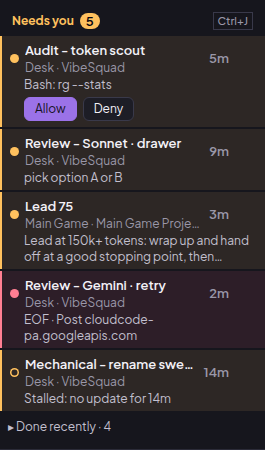
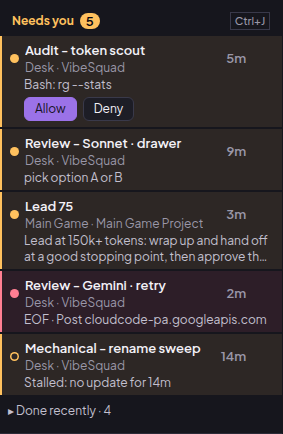
fix(@desk): U3 r2 — lane stays whole, project elides with floor; real-width geometry probe

diff --git a/src/boring.css b/src/boring.css
@@ -1257,9 +1257,9 @@ html[data-vibe="boring"] .boring-opening { margin: auto; color: var(--muted, #88
 html[data-vibe="boring"] .boring-needs-main { flex: 1 1 auto; min-width: 0; display: flex; flex-wrap: wrap; align-items: center; column-gap: 6px; }
 html[data-vibe="boring"] .boring-needs-open .boring-needs-who { flex: 1 1 0; min-width: min(20ch, 100%); max-width: none; }
 html[data-vibe="boring"] .boring-needs-open .boring-needs-where-inline { display: flex; flex: 0 0 100%; max-width: 100%; min-width: 0; overflow: hidden; }
-/* Desk U3 (UX R25 m1): lead rows keep the lane; the project elides first; the separator is a pseudo-element that exists only when a lane is shown (no stray leading "·"). */
-html[data-vibe="boring"] .boring-needs-open .boring-needs-lane { flex: 0 1 auto; min-width: 0; max-width: 100%; overflow: hidden; text-overflow: ellipsis; white-space: nowrap; }
-html[data-vibe="boring"] .boring-needs-open .boring-needs-proj { flex: 0 100 auto; min-width: 0; max-width: 100%; text-indent: 0; overflow: hidden; text-overflow: ellipsis; white-space: nowrap; }
+/* Desk U3 (UX R25 m1, R32 m1+m2): lead rows keep the lane whole when it fits (capped at 100%-6ch so a 27+ch lane leaves a project floor); project elides first; separator is ::before only when lane is non-empty. */
+html[data-vibe="boring"] .boring-needs-open .boring-needs-lane { flex: 0 0 auto; min-width: 0; max-width: calc(100% - 6ch); overflow: hidden; text-overflow: ellipsis; white-space: nowrap; }
+html[data-vibe="boring"] .boring-needs-open .boring-needs-proj { flex: 0 1 auto; min-width: 0; max-width: 100%; text-indent: 0; overflow: hidden; text-overflow: ellipsis; white-space: nowrap; }
 html[data-vibe="boring"] .boring-needs-open .boring-needs-lane:not(:empty) + .boring-needs-proj::before { content: "\00a0·\00a0"; }
 
 /* idea-257: optional 2-pane split in the chat column (src/panes.ts). Grid only, no width media queries. */
